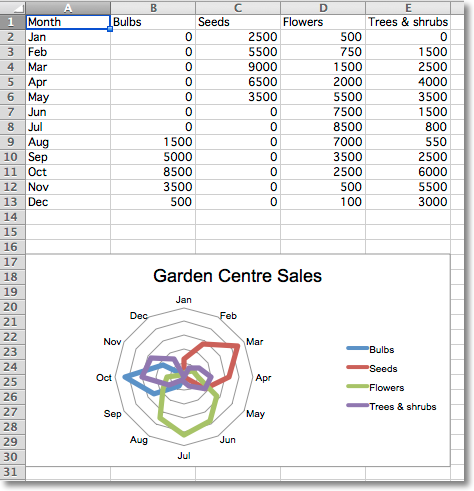
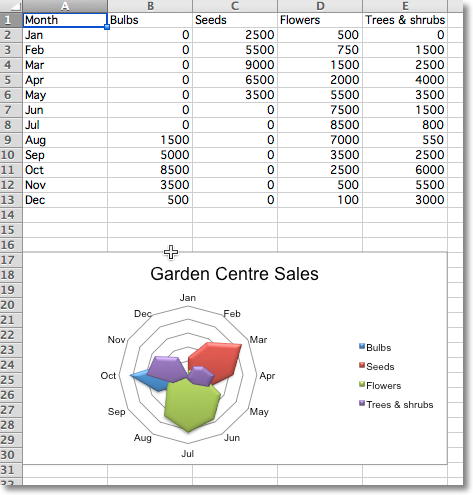
Example uses a filled chart.

Changed region(s): [[0.0, 0.0, 0.9767, 0.9776]]

diff --git a/doc/charts/radar.py b/doc/charts/radar.py
@@ -27,7 +27,7 @@ for row in rows:
     ws.append(row)
 
 chart = RadarChart()
-chart.type = "marker"
+chart.type = "filled"
 labels = Reference(ws, min_col=1, min_row=2, max_row=13)
 data = Reference(ws, min_col=2, max_col=5, min_row=1, max_row=13)
 chart.add_data(data, titles_from_data=True)
